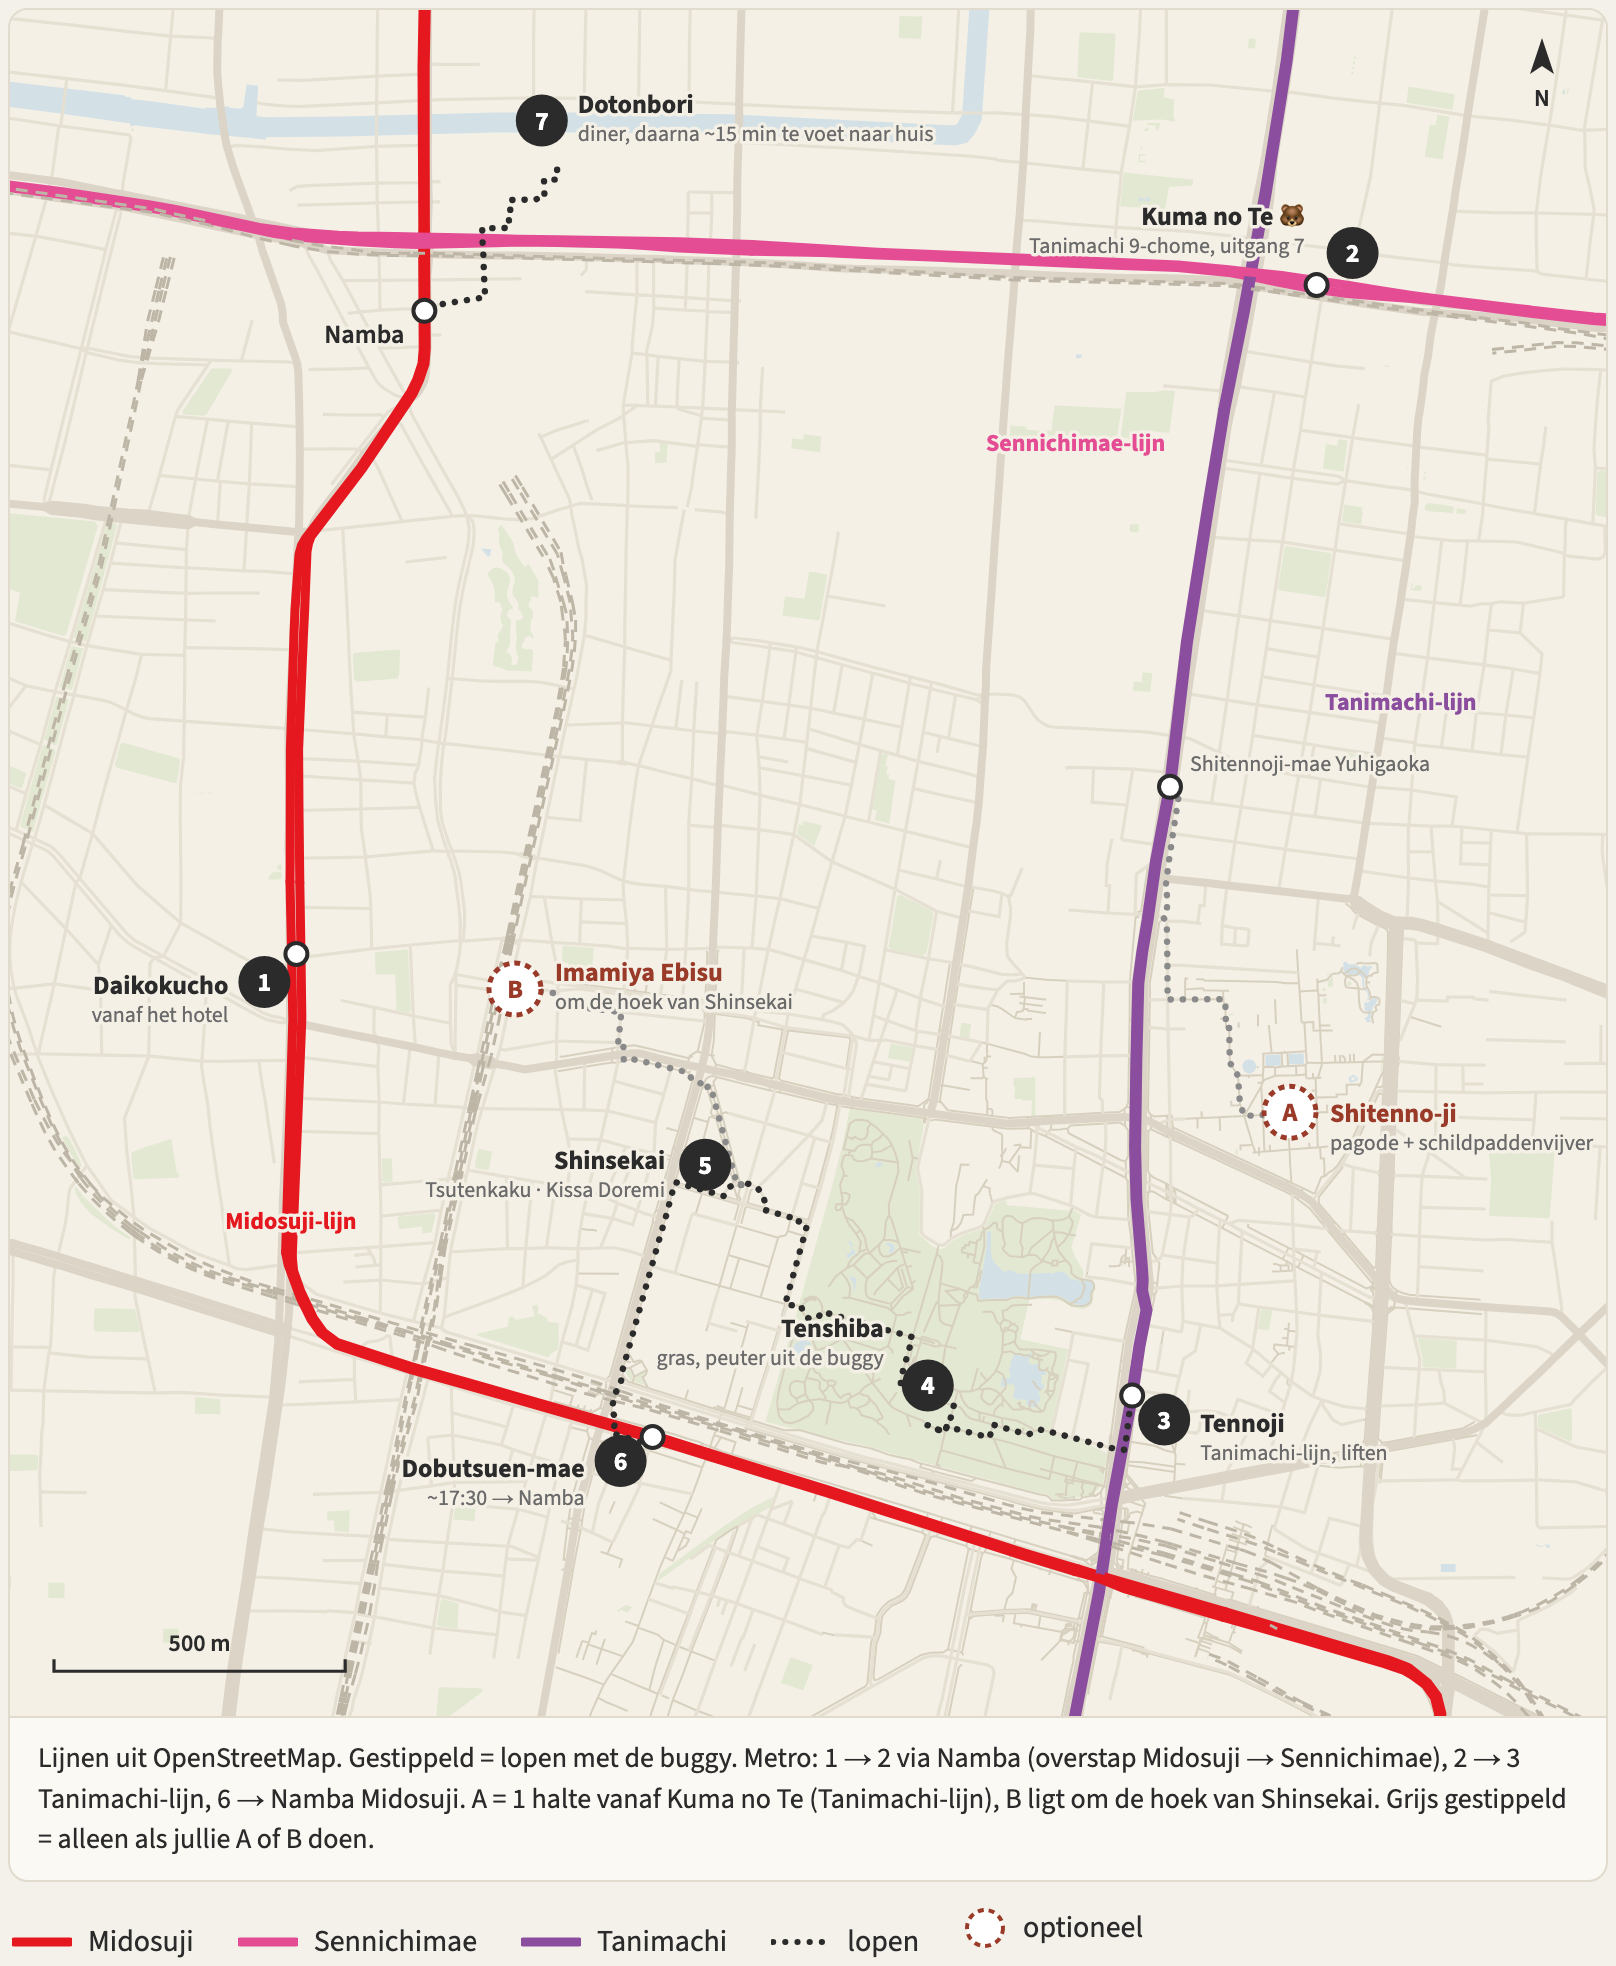
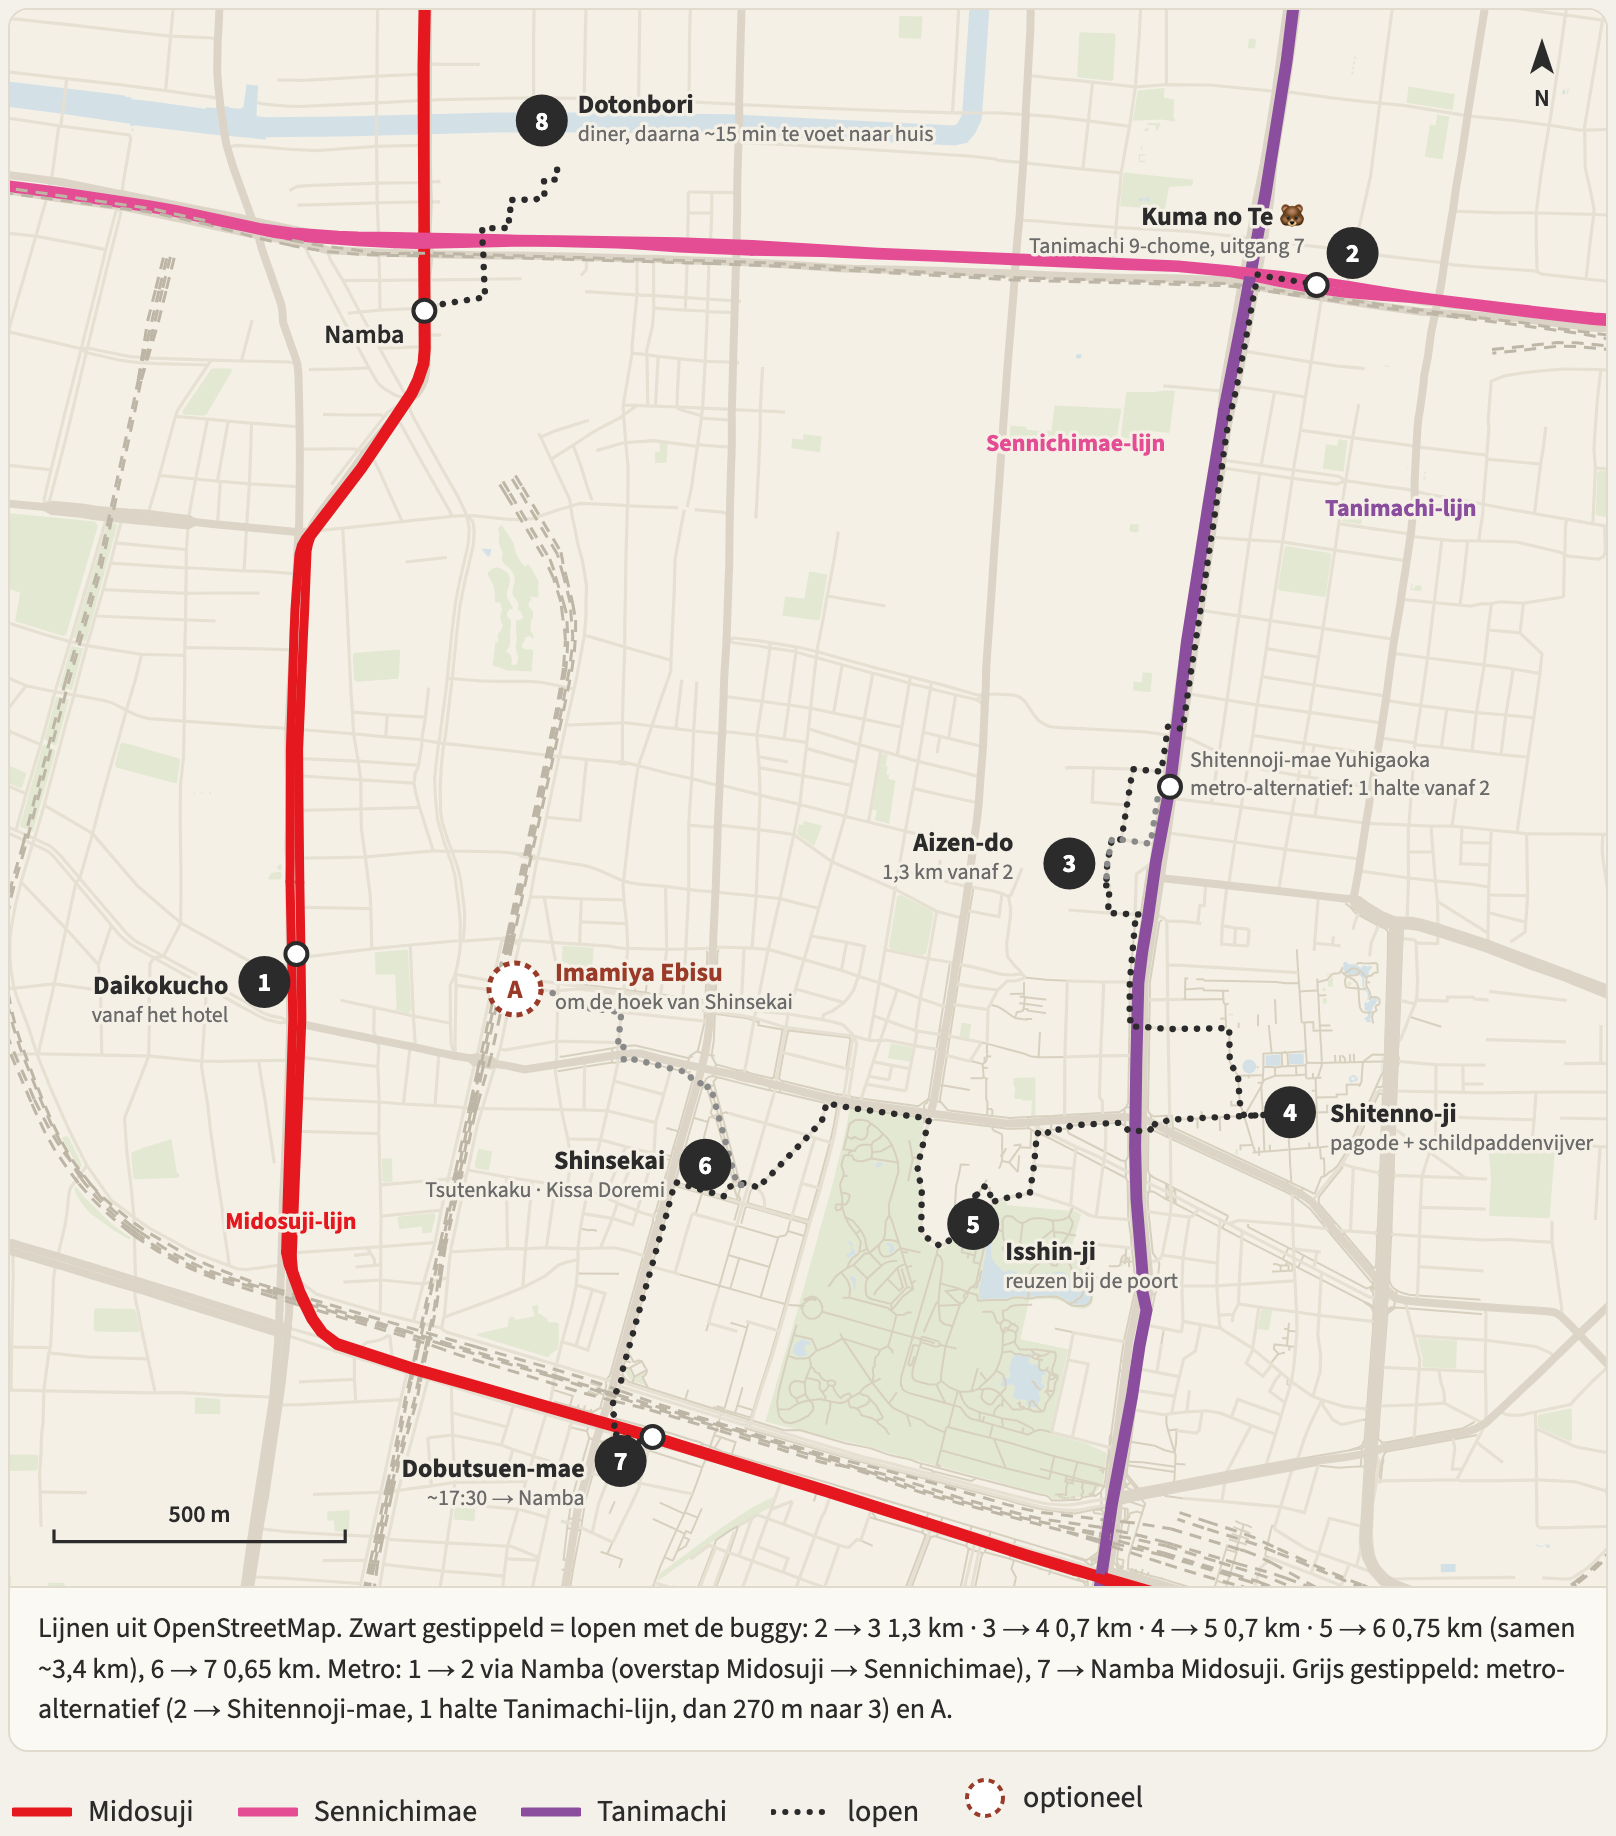
Dag 4 optie 1: Kuma no Te als start van tempelwandeling (Aizen-do → Shitenno-ji → Isshin-ji → Shinsekai, ~3,4 km) met afstanden, metro-alternatief via Shitennoji-mae en afhaakroute · kaartje opnieuw

diff --git a/index.html b/index.html
@@ -1547,12 +1547,18 @@ body.compact .overview-block.inklapbaar:not(.open) { padding:14px 18px; }
       <p>Osakako → Hommachi (Chuo) → Daikokucho (Midosuji), ~30 min incl. lopen · konbini-lunch bij Daikokucho, thuis ~12:20. Lunch in eigen keuken, peuter in eigen bedje, dut <strong>~12:45–14:30</strong>. Allebei thuis.</p>
 
       <h5>15:00 — Namiddag (kies één)</h5>
-      <p><strong>Optie 1 — 🐻 Kuma no Te → Shinsekai</strong> 🗼 (het plan) · twee stops, geen haast: een berenpoot, wat gras, en retro-neon bij blue hour:<br><br>
-      <b>~15:00 Kuma no Te Cafe</b> 🐻 (クマの手カフェ, Uehonmachinishi 5-3-11, 1F) — vanaf hotel: Daikokucho → Namba (Midosuji, 1 halte) → Sennichimae-lijn → Tanimachi 9-chome, uitgang 7, ~15 min; de zaak zit pal bij de uitgang. Je bestelt, en een harige berenpoot overhandigt je drankje of crêpe door een gat in de muur. Gegarandeerde peuter-hit. Mooi concept bovendien: de zaak is een veilige werkplek voor mensen met sociale angst. Za 11:00–19:00, geen vaste sluitingsdag, eet-in kan. ~¥600–900. Zusterzaak Kuma no Te Crepe op 5F.<br><br>
-      <b>~15:45 → Tennoji</b> · Tanimachi-lijn Tanimachi 9-chome → Tennoji (2 haltes, ~5 min, liften) · dan ~10 min door <b>Tennoji Park (Tenshiba)</b> naar Shinsekai — modern grasplein, peuter mag er even uit de buggy. Escape-route als overprikkeling toeslaat. Of taxi vanaf Kuma no Te, ~10 min.<br><br>
-      <b>~16:30 Shinsekai bij blue hour</b> — retro-buurt uit de jaren 30 met Tsutenkaku-toren (mini-Eiffel uit 1956, ¥1.000 om op te gaan). Kushikatsu-zaakjes, kleurrijke 3D-uithangborden (kogelvissen!), oude pachinko-hallen, Billiken-mascotte. Sunset 16:55 = neon gaat aan tijdens jullie wandeling — fantastisch licht. 🍡 <b>Kissa Doremi</b> aan de voet van Tsutenkaku: retro-kissaten uit 1967, dikke old-school hotcake (vers gebakken, 15-20 min wachten = deel van de charme) + mixed juice. ~17:30 metro Dobutsuen-mae → Namba (Midosuji, 2 haltes) voor het diner op Dotonbori, daarna 15 min te voet naar huis.</p>
-      <p style="font-size:12px; color:#888;"><em>⚪ Alleen bij zin en energie (eruit gehaald om de middag rustig te houden): <strong>Shitenno-ji</strong> 四天王寺 — een van Japan's oudste boeddhistische tempels, gesticht in 593 door prins Shotoku (de man die het boeddhisme in Japan op de kaart zette). Wat je ziet: een rode vijf-verdiepingen-pagode in een binnenhof met rode zuilengangen (¥300), een grote stenen torii bij de westpoort, en een <b>schildpaddenvijver</b> vol zonnende schildpadden — dát is voor de peuter het hoogtepunt. Buitenterrein gratis en vlak, ~20–30 min, 1 halte vanaf Kuma no Te (Shitennoji-mae Yuhigaoka). Mooie goshuin-<em>stempel</em>, minimaal boekje · <strong>Imamiya Ebisu Jinja</strong> 今宮戎神社 — shinto-shrine van <b>Ebisu</b>, de lachende god van handel en vissers (dikke buik, hengel, zeebrasem onder de arm). In januari staan er een miljoen mensen voor geluk in zaken; de rest van het jaar een rustig buurtshrine van ~10 min. ~5 min lopen vanaf Shinsekai (Ebisucho). Mooie goshuincho met gouden Ebisu- en zeebrasem-motieven.</em></p>
-      <a href="img/dag4-kuma-shinsekai.png" target="_blank"><img src="img/dag4-kuma-shinsekai.png" alt="Kaart dag 4 optie 1: Daikokucho via Namba naar Kuma no Te, Tanimachi-lijn naar Tennoji, door Tenshiba naar Shinsekai, Dobutsuen-mae terug naar Namba en Dotonbori; optioneel Shitenno-ji en Imamiya Ebisu" loading="lazy" style="display:block;width:100%;height:auto;border:1px solid #e5e0d5;border-radius:10px;margin:12px 0 4px"></a>
+      <p><strong>Optie 1 — 🐻 Kuma no Te → tempelwandeling → Shinsekai</strong> 🗼 (het plan) · de berenpoot als start van een wandeling over de Uemachi-heuvel naar het zuiden, langs drie tempels, en bij blue hour het retro-neon in. ~3,4 km lopen met de buggy, vlak, geen trappen (zie kaartje):<br><br>
+      <b>~14:45 → Kuma no Te</b> · drie manieren: <b>(a)</b> ~15 min lopen (1,1 km) naar Namba, perron Sennichimae-lijn, dan 2 haltes direct naar Tanimachi 9-chome: geen overstap · <b>(b)</b> Daikokucho → Namba (Midosuji, 1 halte), in Namba overstappen op de Sennichimae-lijn (~5 min lopen ondergronds) → Tanimachi 9-chome · <b>(c)</b> taxi, ~10–15 min, ~¥1.500–2.000. Uitgang 7, de zaak zit pal bij de uitgang.<br><br>
+      <b>~15:00 Kuma no Te Cafe</b> 🐻 (クマの手カフェ, Uehonmachinishi 5-3-11, 1F) — je bestelt, en een harige berenpoot overhandigt je drankje of crêpe door een gat in de muur. Gegarandeerde peuter-hit. Mooi concept bovendien: de zaak is een veilige werkplek voor mensen met sociale angst. Za 11:00–19:00 (LiveJapan zegt 10:00–20:00, wisselende sluitdagen: check vooraf Instagram <em>kumanote_cafe.osaka</em>), eet-in kan. ~¥600–900. Zusterzaak Kuma no Te Crepe op 5F.<br><br>
+      <b>~15:40 → Aizen-do</b> · <b>1,3 km</b> (~20 min) naar het zuiden langs Tanimachi-suji. <b>Shoman-in Aizen-do</b> 愛染堂: tempel van Aizen Myoo, beschermer van liefde en relaties, met een houten tweelaagse pagode (tahoto) uit 1597, het oudste gebouw van Osaka. ~10 min.<br>
+      <em>Metro-alternatief:</em> Tanimachi-lijn Tanimachi 9-chome → <b>Shitennoji-mae Yuhigaoka</b> (1 halte, ~2 min, lift), dan 270 m naar Aizen-do. Scheelt ~1 km.<br><br>
+      <b>~16:10 → Shitenno-ji</b> · <b>0,7 km</b> (~10 min). 四天王寺: een van Japan's oudste boeddhistische tempels, gesticht in 593 door prins Shotoku. Rode vijf-verdiepingen-pagode, grote stenen torii bij de westpoort, en een <b>schildpaddenvijver</b> vol zonnende schildpadden — voor de peuter het hoogtepunt. De poorten zijn 24 uur open en het buitenterrein is gratis en vlak; de binnenhof met de pagode (¥500) en de tuin sluiten okt–mrt om <b>16:00</b>, dus die zie je van buiten. Goshuin: kans dat de balie ook rond 16:00 dichtgaat. ~20–30 min.<br>
+      <em>Afhaken:</em> taxi naar Shinsekai (~5 min), of 0,7 km lopen naar station Tennoji en Midosuji → Dobutsuen-mae (1 halte).<br><br>
+      <b>~16:45 → Isshin-ji</b> · <b>0,7 km</b> (~10 min). 一心寺: tempel met een opvallende moderne poort met twee grote bronzen bewakers (nio). ~10 min.<br><br>
+      <b>~17:00 → Shinsekai bij blue hour</b> · <b>0,75 km</b> (~10 min), Shinsekai ligt iets lager, de weg loopt af. Retro-buurt uit de jaren 30 met Tsutenkaku-toren (mini-Eiffel uit 1956, ¥1.000 om op te gaan). Kushikatsu-zaakjes, kleurrijke 3D-uithangborden (kogelvissen!), oude pachinko-hallen, Billiken-mascotte. Sunset 16:55 = neon gaat aan terwijl jullie aankomen. 🍡 <b>Kissa Doremi</b> aan de voet van Tsutenkaku: retro-kissaten uit 1967, dikke old-school hotcake (vers gebakken, 15-20 min wachten = deel van de charme) + mixed juice.<br><br>
+      <b>~18:00 → Dotonbori</b> · <b>0,65 km</b> naar Dobutsuen-mae, Midosuji → Namba (2 haltes), diner op Dotonbori, daarna 15 min te voet naar huis.</p>
+      <p style="font-size:12px; color:#888;"><em>⚪ Alleen bij zin en energie: <strong>Imamiya Ebisu Jinja</strong> 今宮戎神社 (A op het kaartje) — shinto-shrine van <b>Ebisu</b>, de lachende god van handel en vissers (dikke buik, hengel, zeebrasem onder de arm). In januari staan er een miljoen mensen voor geluk in zaken; de rest van het jaar een rustig buurtshrine van ~10 min. ~650 m (8–10 min met de buggy) vanaf Tsutenkaku. Mooie goshuincho met gouden Ebisu- en zeebrasem-motieven.</em></p>
+      <a href="img/dag4-kuma-shinsekai.png" target="_blank"><img src="img/dag4-kuma-shinsekai.png" alt="Kaart dag 4 optie 1: Daikokucho via Namba naar Kuma no Te, te voet via Aizen-do, Shitenno-ji en Isshin-ji naar Shinsekai, Dobutsuen-mae terug naar Namba en Dotonbori; metro-alternatief via Shitennoji-mae Yuhigaoka, optioneel Imamiya Ebisu" loading="lazy" style="display:block;width:100%;height:auto;border:1px solid #e5e0d5;border-radius:10px;margin:12px 0 4px"></a>
       <p><strong>Optie 2 — Umeda Sky Building</strong> 🏙 · Midosuji-lijn 1 stop naar Umeda (~10 min). Hiroshi Hara's <strong>Floating Garden Observatory</strong> — twee wolkenkrabbers verbonden door een open dakring op 173m. <strong>Glazen roltrap</strong> over de afgrond tussen de torens (peuter-spektakel) + 360° uitzicht over Osaka. ¥1.500 p.p. <em>📿 Goshuin-bonus: <strong>Tsuyu-no-Tenjinja (Ohatsu Tenjin)</strong> ligt naast Umeda Station — kleine city-shrine met mooie goshuincho-designs als jullie hier al willen beginnen i.p.v. Koyasan.</em></p>
       <p style="font-size:12px; color:#888;"><em>Trade-off: Shinsekai = compact + dichtbij hotel + park-escape + retro-Osaka die je nergens anders ziet · Umeda = modern + glazen-roltrap-spektakel + verder weg. Voor energiebesparing vóór Koyasan-transit dag 5 wint Shinsekai.</em></p>
 
@@ -1567,7 +1573,7 @@ body.compact .overview-block.inklapbaar:not(.open) { padding:14px 18px; }
   </details>
 
   <div class="badges">
-    <span class="badge badge-tip">⚪ Speeltuin-buffer: 's ochtends Tempozan Park naast het aquarium (aan het water, peuter uit de buggy) · 's middags Tennoji Park/Tenshiba (op de wandeling naar Shinsekai, gratis grasveld, peuter uit de stroller)</span>
+    <span class="badge badge-tip">⚪ Speeltuin-buffer: 's ochtends Tempozan Park naast het aquarium (aan het water, peuter uit de buggy) · 's middags het buitenterrein van Shitenno-ji (schildpaddenvijver, vlak, peuter uit de buggy) · moet hij echt rennen: Tenshiba (gratis grasveld) ligt ~400 m van Isshin-ji, vlak voor Shinsekai</span>
   </div>
 </div>
 
